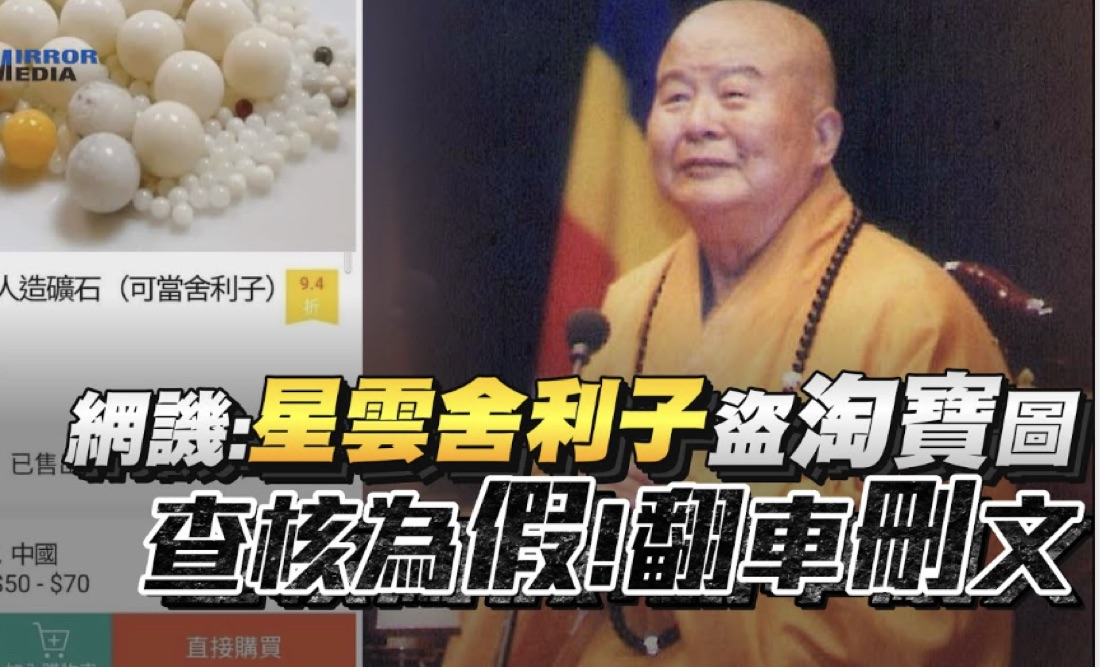
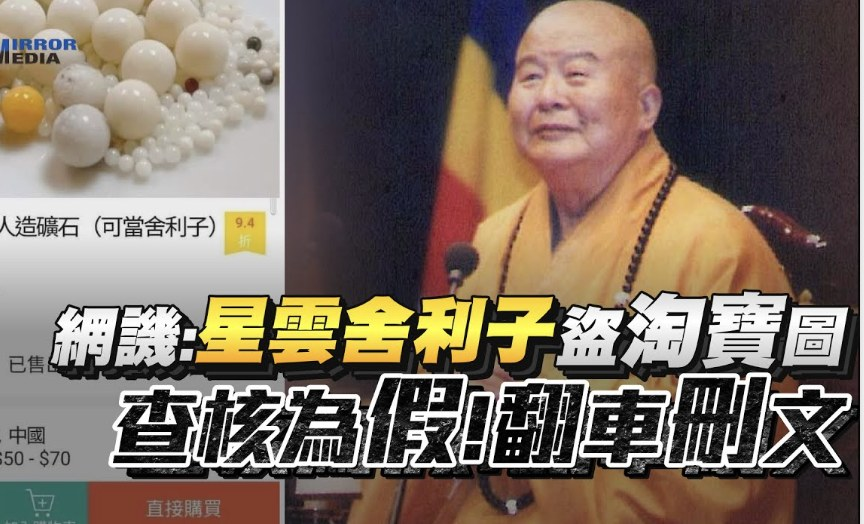
S63補充228兩點的說明；S64補回原簡報遺漏的3張靈異新聞圖並拆出S65終極事實真相獨立頁

diff --git a/index.html b/index.html
@@ -1203,8 +1203,8 @@ body.no-clickzones .click-zones { display: none; }
     <div>
       <h2>什麼是二二八的真相？</h2>
       <ul class="list tight">
-        <li>蔣萬安辦二二八紀念會，如納粹後裔紀念猶太人大屠殺？</li>
-        <li>張若彤與許劍虹的非主流史觀</li>
+        <li>蔣萬安辦二二八紀念會，如納粹後裔紀念猶太人大屠殺？——蔣萬安是蔣介石的曾孫，如今以台北市長身分主持228中樞紀念儀式，被部分輿論形容像是「加害者後代主持受害者的紀念會」，凸顯歷史身分與現實角色之間的複雜張力。</li>
+        <li>張若彤與許劍虹的非主流史觀——兩人近年提出與官方定調不同的228詮釋（如事件起因、責任歸屬等），引發史觀之爭，顯示同一段歷史至今仍有「誰的說法才是真相」的爭議。</li>
       </ul>
     </div>
     <div style="text-align:center;">
@@ -1213,27 +1213,41 @@ body.no-clickzones .click-zones { display: none; }
   </div>
 </section>
 
-<!-- 64 宗教靈異與終極事實 -->
+<!-- 64 宗教靈異現象 -->
 <section class="slide">
-  <div class="two-col">
+  <h2>宗教靈異現象與思考</h2>
+  <div class="gallery" style="grid-template-columns:repeat(2,1fr); grid-template-rows:repeat(2,1fr);">
     <div>
-      <h2>宗教靈異現象與思考</h2>
-      <p class="lead">終極事實的真相？</p>
-      <ul class="list tight">
-        <li>人死如燈滅 vs. 死後生命</li>
-        <li>末世 vs. 來世</li>
-        <li>創造 vs. 演化</li>
-        <li>虛無 vs. 生命有意義</li>
-      </ul>
+      <span class="imgframe"><img src="assets/d2_rel1.jpg" alt="舍利子哪來？醫學角度：肝膽結石？骨骼內礦物質再結晶？" style="max-height:26vh;"></span>
+      <div class="cap">舍利子哪來？醫學角度未有明確定論。</div>
     </div>
-    <div style="text-align:center;">
-      <span class="imgframe"><img src="assets/d2_rel1.jpg" alt="舍利子哪來？新聞畫面" style="max-height:48vh;"></span>
-      <div class="cap">「舍利子哪來？」——宗教現象也需要事實的釐清與思辨。</div>
+    <div>
+      <span class="imgframe"><img src="assets/d2_rel2.jpg" alt="網護：星雲舍利子盜淘寶圖，查核為假" style="max-height:26vh;"></span>
+      <div class="cap">星雲舍利子被指盜用淘寶商品圖，查核為假。</div>
+    </div>
+    <div>
+      <span class="imgframe"><img src="assets/d2_rel3.jpg" alt="舊報紙報導：媽祖破案" style="max-height:26vh;"></span>
+      <div class="cap">媽祖破案？北港朝天宮的靈異傳說。</div>
+    </div>
+    <div>
+      <span class="imgframe"><img src="assets/d2_rel4.jpg" alt="電視新聞：媽祖婆一直敲玻璃" style="max-height:26vh;"></span>
+      <div class="cap">媽祖婆一直敲玻璃，是要傳達什麼訊息？</div>
     </div>
   </div>
 </section>
 
-<!-- 65 價值思辨 -->
+<!-- 65 終極事實的真相 -->
+<section class="slide">
+  <h2>終極事實的真相？</h2>
+  <ul class="list tight">
+    <li>人死如燈滅 vs. 死後生命</li>
+    <li>末世 vs. 來世</li>
+    <li>創造 vs. 演化</li>
+    <li>虛無 vs. 生命有意義</li>
+  </ul>
+</section>
+
+<!-- 66 價值思辨 -->
 <section class="slide dense">
   <h2>如何進行價值思辨？</h2>
   <div class="two-col top" style="flex:0 1 auto;">
@@ -1263,7 +1277,7 @@ body.no-clickzones .click-zones { display: none; }
   </div>
 </section>
 
-<!-- 66 BRD 與舉證責任 -->
+<!-- 67 BRD 與舉證責任 -->
 <section class="slide">
   <h2>如何進行司法判決？BRD 與舉證責任</h2>
   <div class="cards c2" style="flex:0 1 auto;">
@@ -1279,7 +1293,7 @@ body.no-clickzones .click-zones { display: none; }
   </div>
 </section>
 
-<!-- 67 殺人罪條文 -->
+<!-- 68 殺人罪條文 -->
 <section class="slide">
   <h2>以殺人罪之判決為例</h2>
   <div class="cards c2" style="flex:0 1 auto;">
@@ -1298,7 +1312,7 @@ body.no-clickzones .click-zones { display: none; }
   </div>
 </section>
 
-<!-- 68 刑事判決三階段 -->
+<!-- 69 刑事判決三階段 -->
 <section class="slide">
   <h2>刑事判決三階段</h2>
   <div class="stages">
@@ -1323,7 +1337,7 @@ body.no-clickzones .click-zones { display: none; }
   <p class="small">構成要件該當則推定違法，故第二階層檢視有無阻卻違法事由；違法則推定有罪責，故第三階層檢視有無阻卻罪責事由。</p>
 </section>
 
-<!-- 69 邏輯推理 -->
+<!-- 70 邏輯推理 -->
 <section class="slide">
   <h2>邏輯推理</h2>
   <div class="two-col">
@@ -1338,7 +1352,7 @@ body.no-clickzones .click-zones { display: none; }
   </div>
 </section>
 
-<!-- 70 先驗態度 -->
+<!-- 71 先驗態度 -->
 <section class="slide">
   <h2>思考的情意與態度：先驗態度與立場影響行動</h2>
   <ul class="list">
@@ -1349,7 +1363,7 @@ body.no-clickzones .click-zones { display: none; }
   </ul>
 </section>
 
-<!-- 71 情意態度對照 -->
+<!-- 72 情意態度對照 -->
 <section class="slide dense">
   <h2>思考的情意與態度</h2>
   <div class="contrast">
@@ -1378,7 +1392,7 @@ body.no-clickzones .click-zones { display: none; }
   </div>
 </section>
 
-<!-- 72 意識形態與後真相 -->
+<!-- 73 意識形態與後真相 -->
 <section class="slide">
   <h2>意識形態與後真相</h2>
   <div class="cards c2" style="flex:0 1 auto;">
@@ -1393,13 +1407,13 @@ body.no-clickzones .click-zones { display: none; }
   </div>
 </section>
 
-<!-- 73 立場不必中立 總起 -->
+<!-- 74 立場不必中立 總起 -->
 <section class="slide big-say">
   <p class="line">立場<em>不必中立</em><br>態度<em>必須公正</em></p>
   <p class="small" style="margin-top:1.5em;">面對爭議性議題時，思考的態度與涵養非常重要。<br>不同立場的人若能進行同理對話、修正彼此的立場，將能趨近更完整的真理。（手冊附錄）</p>
 </section>
 
-<!-- 74 立場不必中立 -->
+<!-- 75 立場不必中立 -->
 <section class="slide">
   <h2>立場不必中立</h2>
   <ul class="list">
@@ -1411,7 +1425,7 @@ body.no-clickzones .click-zones { display: none; }
   <blockquote style="margin-top:.8em;">「立場不必中立」意味著人對當下所掌握的真理，要有一種「雖千萬人吾亦往矣」的投身與承擔的勇氣。</blockquote>
 </section>
 
-<!-- 75 反思態度 -->
+<!-- 76 反思態度 -->
 <section class="slide">
   <h2>對人我立場保持反思態度</h2>
   <ul class="list">
@@ -1422,7 +1436,7 @@ body.no-clickzones .click-zones { display: none; }
   <blockquote style="margin-top:.8em;">苟日新，日日新，又日新。<cite>——《禮記．大學》引湯之盤銘</cite></blockquote>
 </section>
 
-<!-- 76 態度公正（一） -->
+<!-- 77 態度公正（一） -->
 <section class="slide">
   <h2>態度必須公正（一）：對自己的立場</h2>
   <ul class="list">
@@ -1432,7 +1446,7 @@ body.no-clickzones .click-zones { display: none; }
   </ul>
 </section>
 
-<!-- 77 態度公正（二） -->
+<!-- 78 態度公正（二） -->
 <section class="slide">
   <h2>態度必須公正（二）：對他人的立場</h2>
   <ul class="list">
@@ -1442,7 +1456,7 @@ body.no-clickzones .click-zones { display: none; }
   </ul>
 </section>
 
-<!-- 78 思考的偵察兵 -->
+<!-- 79 思考的偵察兵 -->
 <section class="slide">
   <h2>思考的偵察兵</h2>
   <div class="vframe" id="vw-3">
@@ -1453,7 +1467,7 @@ body.no-clickzones .click-zones { display: none; }
   <p style="text-align:center; max-width:none;"><a class="vid-link" href="https://www.youtube.com/watch?v=3MYEtQ5Zdn8" target="_blank" rel="noopener">Julia Galef：士兵心態 vs. 偵察兵心態（TEDxPSU）↗</a></p>
 </section>
 
-<!-- 79 知性與感性 -->
+<!-- 80 知性與感性 -->
 <section class="slide">
   <h2>思考中的靈性修養：知性與感性</h2>
   <div class="cards c2" style="flex:0 1 auto;">
@@ -1469,7 +1483,7 @@ body.no-clickzones .click-zones { display: none; }
   </div>
 </section>
 
-<!-- 80 靈性修養為基礎 -->
+<!-- 81 靈性修養為基礎 -->
 <section class="slide">
   <h2>知性與感性，以靈性修養為基礎</h2>
   <ul class="list">
@@ -1480,7 +1494,7 @@ body.no-clickzones .click-zones { display: none; }
   </ul>
 </section>
 
-<!-- 81 後設思考 -->
+<!-- 82 後設思考 -->
 <section class="slide">
   <h2>後設思考</h2>
   <ul class="list">
@@ -1490,21 +1504,21 @@ body.no-clickzones .click-zones { display: none; }
   </ul>
 </section>
 
-<!-- 82 思考素養與生命教育 -->
+<!-- 83 思考素養與生命教育 -->
 <section class="slide" style="align-items:center; text-align:center;">
   <h2 style="font-size:clamp(2.2rem,3.6vw,3.2rem); align-self:center;">思考素養與生命教育</h2>
   <p style="font-size:clamp(1.6rem,2.3vw,2rem); max-width:48em; margin:.6em auto 0;">包含「知識與技能」、「情意與態度」與「後設思考」三個子題的「思考素養」，不僅僅是生命教育的一項核心素養，更是學生學習各種「國民核心素養」時所不可或缺的一項<span class="gold">基礎素養</span>。</p>
   <p style="font-size:clamp(1.6rem,2.3vw,2rem); max-width:48em; margin:.8em auto 0;">它幫助人發掘與面對生活中的各種問題與挑戰，也是探索並養成生命教育其他四項核心素養所不可或缺的要素。</p>
 </section>
 
-<!-- 83 結語 -->
+<!-- 84 結語 -->
 <section class="slide big-say">
   <div class="ornament" style="width:90px; height:3px; background:linear-gradient(90deg,transparent,var(--accent),transparent); margin:0 auto 2em;"></div>
   <p class="line">以<em>理性的批判</em>、<em>靈性的覺察</em>，<br>以追求智慧的態度從事思考。</p>
   <p class="small" style="margin-top:2em;">——孫效智，〈哲學思考〉講義（2023）</p>
 </section>
 
-<!-- 84 引用來源 -->
+<!-- 85 引用來源 -->
 <section class="slide dense">
   <h2>引用來源</h2>
   <ol class="references">
@@ -1528,7 +1542,7 @@ body.no-clickzones .click-zones { display: none; }
   </ol>
 </section>
 
-<!-- 85 謝謝 -->
+<!-- 86 謝謝 -->
 <section class="slide closing">
   <h1 style="font-size:clamp(2rem,4vw,3.4rem);">Thanks for your attention!</h1>
   <div class="ornament"></div>